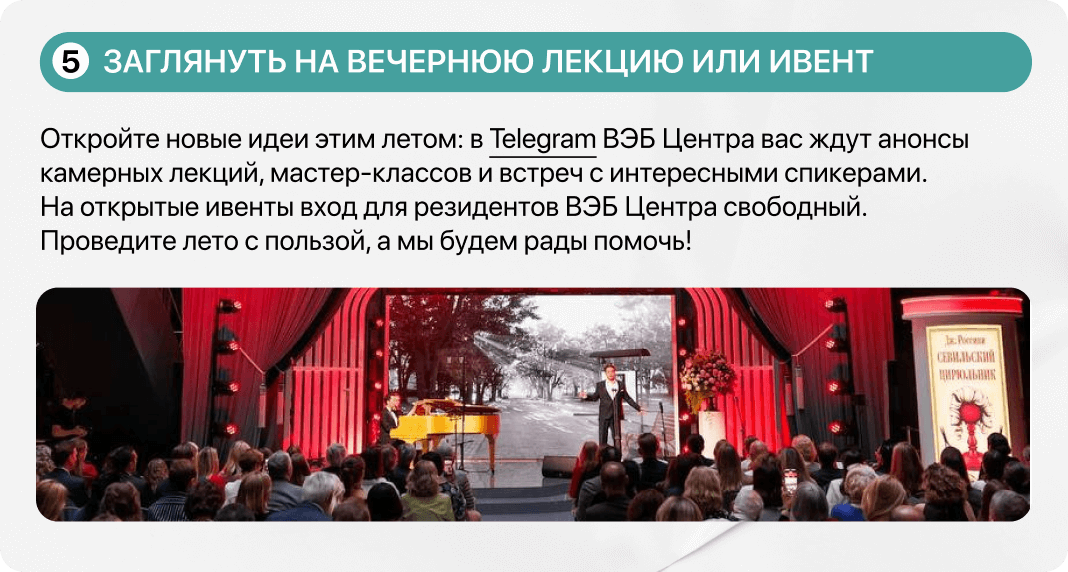
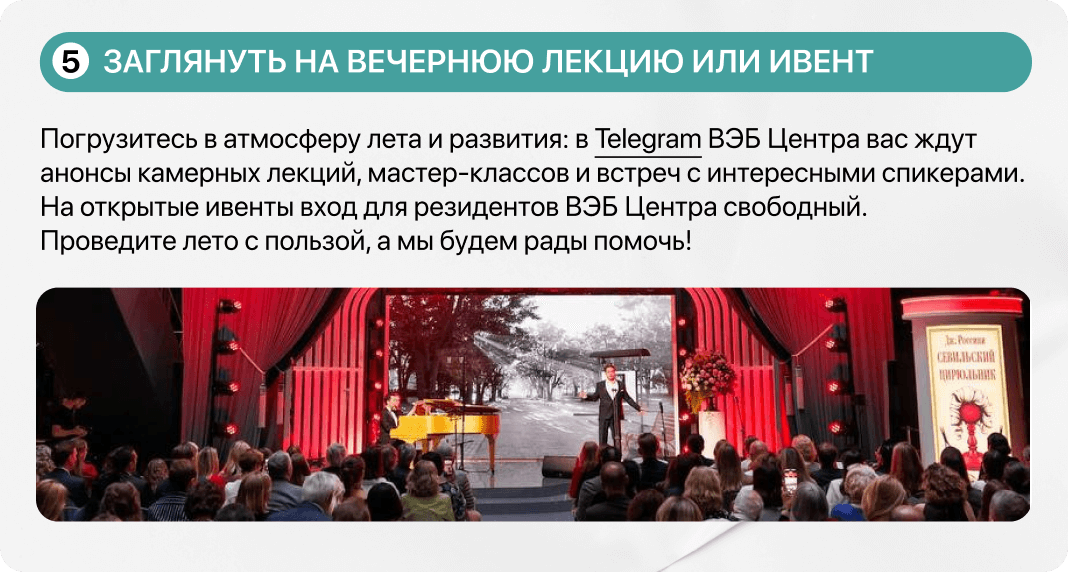
change veb-center-44

Changed region(s): [[0.0309, 0.208, 0.9579, 0.3269], [0.3708, 0.743, 0.4017, 0.7727]]

diff --git a/veb-center-44/6 летних дел - Резиденты.html b/veb-center-44/6 летних дел - Резиденты.html
@@ -194,7 +194,7 @@
                                         <tr>
                                             <td>
                                                 <a href="https://t.me/veb_center" target="_blank">
-                                                    <img alt="5. Заглянуть на вечернюю лекцию или ивент. Откройте новые идеи этим летом: в Telegram ВЭБ Центра вас ждут анонсы камерных лекций, мастер-классов и встреч с интересными спикерами. На открытые ивенты вход для резидентов ВЭБ Центра свободный. Проведите лето с пользой, а мы будем рады помочь!" height="auto" src="https://cp.unisender.com/ru/user_file?resource=images&user_id=5608985&name=vc-44-content-img-5.png" style="border:0;display:block;outline:none;text-decoration:none;height:auto;max-width:540px;width:100%;font-size:13px;" width="534" />
+                                                    <img alt="5. Заглянуть на вечернюю лекцию или ивент. Погрузитесь в атмосферу лета и развития: в Telegram ВЭБ Центра вас ждут анонсы камерных лекций, мастер-классов и встреч с интересными спикерами. На открытые ивенты вход для резидентов ВЭБ Центра свободный. Проведите лето с пользой, а мы будем рады помочь!" height="auto" src="https://cp.unisender.com/ru/user_file?resource=images&user_id=5608985&name=vc-44-content-img-5.png" style="border:0;display:block;outline:none;text-decoration:none;height:auto;max-width:540px;width:100%;font-size:13px;" width="534" />
                                                 </a>
                                             </td>
                                         </tr>
@@ -208,7 +208,7 @@
                                         <tbody>
                                         <tr>
                                             <td>
-                                                <img alt="6. Перезагрузиться в ВЭБ Центре, устроить вечер заботы о себе. Летний маникюр в Aldo Coppola или массаж в Wellcure — лучше всё и сразу, а после — за букетом пионов в Florist Gump. Идеальный план для выходного дня в центре города." height="auto" src="https://cp.unisender.com/ru/user_file?resource=images&user_id=5608985&name=vc-44-content-img-6.png" style="border:0;display:block;outline:none;text-decoration:none;height:auto;max-width:540px;width:100%;font-size:13px;" width="534" />
+                                                <img alt="6. Устроить вечер заботы о себе. Начните день с маникюра в Aldo Coppola, продолжите расслабляющим массажем или флоатингом в Wellcure — летом в ВЭБ Центре действует специальное предложение: утренние и вечерние сеансы флоатинга всего за 3990₽ по промокоду happyfloat. Акция действует в будни с 9:00до 12:00 и с 22:00 до 24:00. А завершите день букетом пионов из Florist Gump — просто потому что лето." height="auto" src="https://cp.unisender.com/ru/user_file?resource=images&user_id=5608985&name=vc-44-content-img-6.png" style="border:0;display:block;outline:none;text-decoration:none;height:auto;max-width:540px;width:100%;font-size:13px;" width="534" />
                                             </td>
                                         </tr>
                                         </tbody>

diff --git a/veb-center-44/6 летних дел - Участники.html b/veb-center-44/6 летних дел - Участники.html
@@ -194,7 +194,7 @@
                                         <tr>
                                             <td>
                                                 <a href="https://t.me/veb_center" target="_blank">
-                                                    <img alt="5. Заглянуть на вечернюю лекцию или ивент. Откройте новые идеи этим летом: в Telegram ВЭБ Центра вас ждут анонсы камерных лекций, мастер-классов и встреч с интересными спикерами. На открытые ивенты вход для резидентов ВЭБ Центра свободный. Проведите лето с пользой, а мы будем рады помочь!" height="auto" src="https://cp.unisender.com/ru/user_file?resource=images&user_id=5608985&name=vc-44-content-img-5.png" style="border:0;display:block;outline:none;text-decoration:none;height:auto;max-width:540px;width:100%;font-size:13px;" width="534" />
+                                                    <img alt="5. Заглянуть на вечернюю лекцию или ивент. Погрузитесь в атмосферу лета и развития: в Telegram ВЭБ Центра вас ждут анонсы камерных лекций, мастер-классов и встреч с интересными спикерами. На открытые ивенты вход для резидентов ВЭБ Центра свободный. Проведите лето с пользой, а мы будем рады помочь!" height="auto" src="https://cp.unisender.com/ru/user_file?resource=images&user_id=5608985&name=vc-44-content-img-5.png" style="border:0;display:block;outline:none;text-decoration:none;height:auto;max-width:540px;width:100%;font-size:13px;" width="534" />
                                                 </a>
                                             </td>
                                         </tr>
@@ -208,7 +208,7 @@
                                         <tbody>
                                         <tr>
                                             <td>
-                                                <img alt="6. Перезагрузиться в ВЭБ Центре, устроить вечер заботы о себе. Летний маникюр в Aldo Coppola или массаж в Wellcure — лучше всё и сразу, а после — за букетом пионов в Florist Gump. Идеальный план для выходного дня в центре города." height="auto" src="https://cp.unisender.com/ru/user_file?resource=images&user_id=5608985&name=vc-44-content-img-6.png" style="border:0;display:block;outline:none;text-decoration:none;height:auto;max-width:540px;width:100%;font-size:13px;" width="534" />
+                                                <img alt="6. Устроить вечер заботы о себе. Начните день с маникюра в Aldo Coppola, продолжите расслабляющим массажем или флоатингом в Wellcure — летом в ВЭБ Центре действует специальное предложение: утренние и вечерние сеансы флоатинга всего за 3990₽ по промокоду happyfloat. Акция действует в будни с 9:00до 12:00 и с 22:00 до 24:00. А завершите день букетом пионов из Florist Gump — просто потому что лето." height="auto" src="https://cp.unisender.com/ru/user_file?resource=images&user_id=5608985&name=vc-44-content-img-6.png" style="border:0;display:block;outline:none;text-decoration:none;height:auto;max-width:540px;width:100%;font-size:13px;" width="534" />
                                             </td>
                                         </tr>
                                         </tbody>
